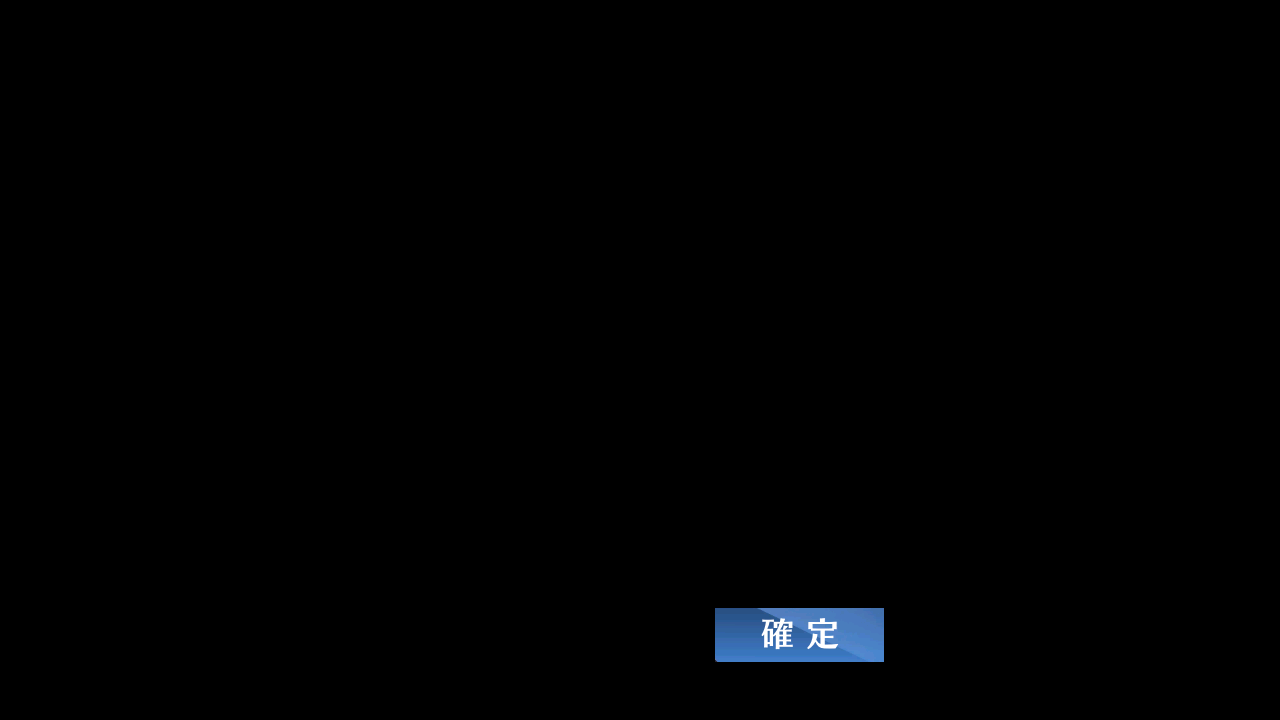
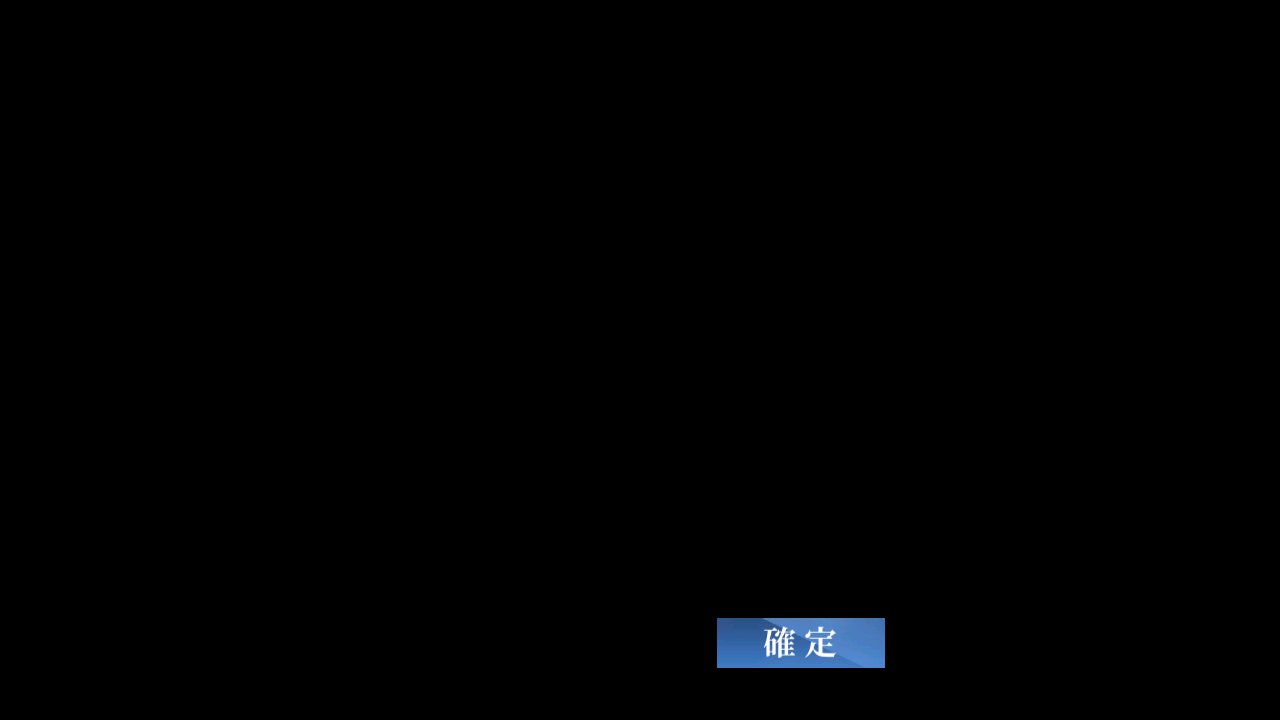
Fix: [JP]Data_Key&Dock_Filter_Confirm assets

Changed region(s): [[0.5625, 0.825, 0.6875, 0.9472]]

diff --git a/module/retire/assets.py b/module/retire/assets.py
@@ -9,7 +9,7 @@ COMMON_SHIP_FILTER_ENABLE = Button(area={'cn': (666, 6, 802, 48), 'en': (665, 5,
 DOCK_CHECK = Button(area={'cn': (121, 14, 175, 39), 'en': (121, 17, 189, 39), 'jp': (123, 15, 195, 38), 'tw': (121, 13, 176, 39)}, color={'cn': (156, 171, 207), 'en': (112, 125, 162), 'jp': (97, 108, 142), 'tw': (149, 164, 200)}, button={'cn': (121, 14, 175, 39), 'en': (121, 17, 189, 39), 'jp': (123, 15, 195, 38), 'tw': (121, 13, 176, 39)}, file={'cn': './assets/cn/retire/DOCK_CHECK.png', 'en': './assets/en/retire/DOCK_CHECK.png', 'jp': './assets/jp/retire/DOCK_CHECK.png', 'tw': './assets/tw/retire/DOCK_CHECK.png'})
 DOCK_EMPTY = Button(area={'cn': (95, 347, 388, 378), 'en': (95, 318, 264, 339), 'jp': (96, 347, 252, 376), 'tw': (94, 347, 390, 379)}, color={'cn': (160, 154, 159), 'en': (106, 99, 106), 'jp': (159, 152, 156), 'tw': (163, 157, 162)}, button={'cn': (95, 347, 388, 378), 'en': (95, 318, 264, 339), 'jp': (96, 347, 252, 376), 'tw': (94, 347, 390, 379)}, file={'cn': './assets/cn/retire/DOCK_EMPTY.png', 'en': './assets/en/retire/DOCK_EMPTY.png', 'jp': './assets/jp/retire/DOCK_EMPTY.png', 'tw': './assets/tw/retire/DOCK_EMPTY.png'})
 DOCK_FILTER = Button(area={'cn': (1099, 5, 1193, 48), 'en': (1098, 4, 1194, 49), 'jp': (1101, 6, 1192, 46), 'tw': (1099, 6, 1193, 47)}, color={'cn': (70, 87, 127), 'en': (73, 90, 128), 'jp': (67, 84, 125), 'tw': (78, 96, 137)}, button={'cn': (1099, 5, 1193, 48), 'en': (1098, 4, 1194, 49), 'jp': (1101, 6, 1192, 46), 'tw': (1099, 6, 1193, 47)}, file={'cn': './assets/cn/retire/DOCK_FILTER.png', 'en': './assets/en/retire/DOCK_FILTER.png', 'jp': './assets/jp/retire/DOCK_FILTER.png', 'tw': './assets/tw/retire/DOCK_FILTER.png'})
-DOCK_FILTER_CONFIRM = Button(area={'cn': (714, 613, 886, 671), 'en': (718, 618, 883, 666), 'jp': (715, 608, 884, 662), 'tw': (715, 630, 884, 680)}, color={'cn': (86, 133, 192), 'en': (108, 148, 201), 'jp': (83, 129, 188), 'tw': (83, 130, 190)}, button={'cn': (714, 613, 886, 671), 'en': (718, 618, 883, 666), 'jp': (715, 608, 884, 662), 'tw': (715, 630, 884, 680)}, file={'cn': './assets/cn/retire/DOCK_FILTER_CONFIRM.png', 'en': './assets/en/retire/DOCK_FILTER_CONFIRM.png', 'jp': './assets/jp/retire/DOCK_FILTER_CONFIRM.png', 'tw': './assets/tw/retire/DOCK_FILTER_CONFIRM.png'})
+DOCK_FILTER_CONFIRM = Button(area={'cn': (714, 613, 886, 671), 'en': (718, 618, 883, 666), 'jp': (717, 618, 885, 668), 'tw': (715, 630, 884, 680)}, color={'cn': (86, 133, 192), 'en': (108, 148, 201), 'jp': (83, 128, 188), 'tw': (83, 130, 190)}, button={'cn': (714, 613, 886, 671), 'en': (718, 618, 883, 666), 'jp': (717, 618, 885, 668), 'tw': (715, 630, 884, 680)}, file={'cn': './assets/cn/retire/DOCK_FILTER_CONFIRM.png', 'en': './assets/en/retire/DOCK_FILTER_CONFIRM.png', 'jp': './assets/jp/retire/DOCK_FILTER_CONFIRM.png', 'tw': './assets/tw/retire/DOCK_FILTER_CONFIRM.png'})
 DOCK_SCROLL = Button(area={'cn': (1239, 76, 1248, 641), 'en': (1239, 76, 1248, 641), 'jp': (1237, 78, 1250, 628), 'tw': (1239, 76, 1248, 641)}, color={'cn': (47, 46, 37), 'en': (47, 46, 37), 'jp': (180, 156, 66), 'tw': (47, 46, 37)}, button={'cn': (1239, 76, 1248, 641), 'en': (1239, 76, 1248, 641), 'jp': (1237, 78, 1250, 628), 'tw': (1239, 76, 1248, 641)}, file={'cn': './assets/cn/retire/DOCK_SCROLL.png', 'en': './assets/en/retire/DOCK_SCROLL.png', 'jp': './assets/jp/retire/DOCK_SCROLL.png', 'tw': './assets/tw/retire/DOCK_SCROLL.png'})
 DOCK_SELECTED = Button(area={'cn': (555, 665, 605, 686), 'en': (696, 659, 751, 689), 'jp': (585, 663, 644, 688), 'tw': (555, 665, 605, 686)}, color={'cn': (83, 86, 96), 'en': (69, 70, 79), 'jp': (69, 71, 82), 'tw': (83, 86, 96)}, button={'cn': (555, 665, 605, 686), 'en': (696, 659, 751, 689), 'jp': (585, 663, 644, 688), 'tw': (555, 665, 605, 686)}, file={'cn': './assets/cn/retire/DOCK_SELECTED.png', 'en': './assets/en/retire/DOCK_SELECTED.png', 'jp': './assets/jp/retire/DOCK_SELECTED.png', 'tw': './assets/tw/retire/DOCK_SELECTED.png'})
 ENHANCE_CONFIRM = Button(area={'cn': (1126, 602, 1256, 645), 'en': (1130, 603, 1255, 643), 'jp': (1126, 601, 1257, 646), 'tw': (1126, 602, 1257, 644)}, color={'cn': (203, 149, 81), 'en': (204, 148, 82), 'jp': (189, 139, 78), 'tw': (198, 145, 82)}, button={'cn': (1126, 602, 1256, 645), 'en': (1130, 603, 1255, 643), 'jp': (1126, 601, 1257, 646), 'tw': (1126, 602, 1257, 644)}, file={'cn': './assets/cn/retire/ENHANCE_CONFIRM.png', 'en': './assets/en/retire/ENHANCE_CONFIRM.png', 'jp': './assets/jp/retire/ENHANCE_CONFIRM.png', 'tw': './assets/tw/retire/ENHANCE_CONFIRM.png'})

diff --git a/module/data_key/assets.py b/module/data_key/assets.py
@@ -4,6 +4,6 @@ from module.base.template import Template
 # This file was automatically generated by dev_tools.button_extract.
 # Don't modify it manually.
 
-DATA_KEY_COLLECT = Button(area={'cn': (251, 38, 339, 73), 'en': (256, 42, 337, 68), 'jp': (251, 38, 339, 73), 'tw': (251, 38, 339, 73)}, color={'cn': (144, 116, 77), 'en': (145, 109, 72), 'jp': (144, 116, 77), 'tw': (144, 116, 77)}, button={'cn': (251, 38, 339, 73), 'en': (256, 42, 337, 68), 'jp': (251, 38, 339, 73), 'tw': (251, 38, 339, 73)}, file={'cn': './assets/cn/data_key/DATA_KEY_COLLECT.png', 'en': './assets/en/data_key/DATA_KEY_COLLECT.png', 'jp': './assets/jp/data_key/DATA_KEY_COLLECT.png', 'tw': './assets/tw/data_key/DATA_KEY_COLLECT.png'})
-DATA_KEY_COLLECTED = Button(area={'cn': (251, 38, 339, 73), 'en': (255, 42, 338, 68), 'jp': (251, 38, 339, 73), 'tw': (251, 38, 339, 73)}, color={'cn': (102, 103, 103), 'en': (113, 113, 115), 'jp': (102, 103, 103), 'tw': (102, 103, 103)}, button={'cn': (251, 38, 339, 73), 'en': (255, 42, 338, 68), 'jp': (251, 38, 339, 73), 'tw': (251, 38, 339, 73)}, file={'cn': './assets/cn/data_key/DATA_KEY_COLLECTED.png', 'en': './assets/en/data_key/DATA_KEY_COLLECTED.png', 'jp': './assets/jp/data_key/DATA_KEY_COLLECTED.png', 'tw': './assets/tw/data_key/DATA_KEY_COLLECTED.png'})
+DATA_KEY_COLLECT = Button(area={'cn': (251, 38, 339, 73), 'en': (256, 42, 337, 68), 'jp': (254, 40, 340, 72), 'tw': (251, 38, 339, 73)}, color={'cn': (144, 116, 77), 'en': (145, 109, 72), 'jp': (144, 111, 69), 'tw': (144, 116, 77)}, button={'cn': (251, 38, 339, 73), 'en': (256, 42, 337, 68), 'jp': (254, 40, 340, 72), 'tw': (251, 38, 339, 73)}, file={'cn': './assets/cn/data_key/DATA_KEY_COLLECT.png', 'en': './assets/en/data_key/DATA_KEY_COLLECT.png', 'jp': './assets/jp/data_key/DATA_KEY_COLLECT.png', 'tw': './assets/tw/data_key/DATA_KEY_COLLECT.png'})
+DATA_KEY_COLLECTED = Button(area={'cn': (251, 38, 339, 73), 'en': (255, 42, 338, 68), 'jp': (254, 41, 340, 71), 'tw': (251, 38, 339, 73)}, color={'cn': (102, 103, 103), 'en': (113, 113, 115), 'jp': (102, 103, 103), 'tw': (102, 103, 103)}, button={'cn': (251, 38, 339, 73), 'en': (255, 42, 338, 68), 'jp': (254, 41, 340, 71), 'tw': (251, 38, 339, 73)}, file={'cn': './assets/cn/data_key/DATA_KEY_COLLECTED.png', 'en': './assets/en/data_key/DATA_KEY_COLLECTED.png', 'jp': './assets/jp/data_key/DATA_KEY_COLLECTED.png', 'tw': './assets/tw/data_key/DATA_KEY_COLLECTED.png'})
 OCR_DATA_KEY = Button(area={'cn': (132, 42, 233, 70), 'en': (132, 42, 233, 70), 'jp': (132, 42, 233, 70), 'tw': (132, 42, 233, 70)}, color={'cn': (74, 75, 86), 'en': (74, 75, 86), 'jp': (74, 75, 86), 'tw': (74, 75, 86)}, button={'cn': (132, 42, 233, 70), 'en': (132, 42, 233, 70), 'jp': (132, 42, 233, 70), 'tw': (132, 42, 233, 70)}, file={'cn': './assets/cn/data_key/OCR_DATA_KEY.png', 'en': './assets/en/data_key/OCR_DATA_KEY.png', 'jp': './assets/jp/data_key/OCR_DATA_KEY.png', 'tw': './assets/tw/data_key/OCR_DATA_KEY.png'})
